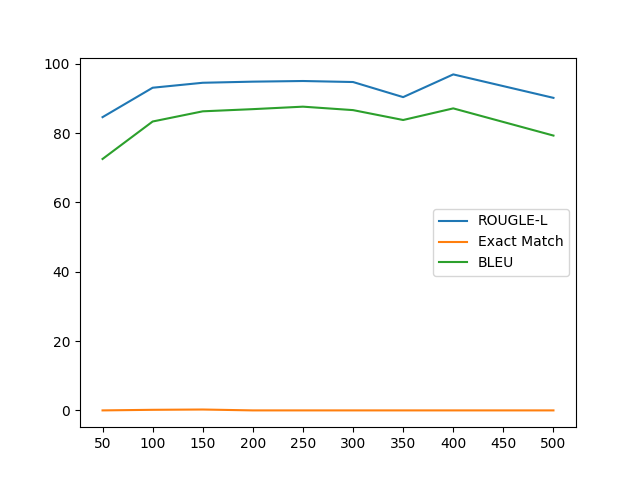
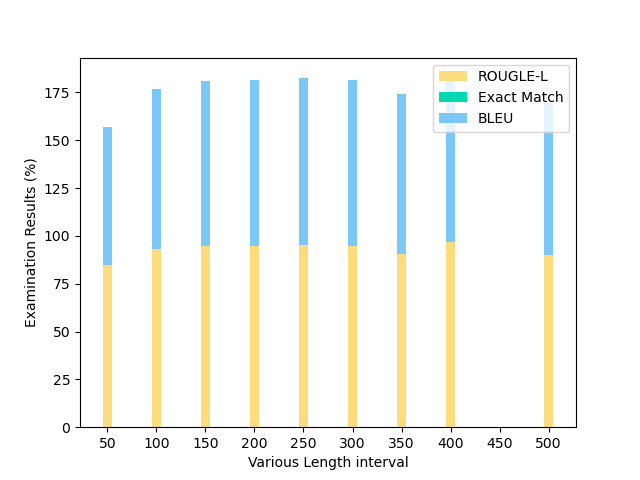
avg length

diff --git a/plotGraph.py b/plotGraph.py
@@ -7,24 +7,29 @@ def multi_plot(rl, em, bleu,interval):
     plt.plot(interval, em,'+-', label = 'Exact Match')
     plt.plot(interval, bleu,'+-', label = 'BLEU')
 
+    # plt.bar(interval, rl,10,color='#FBDD7E')
+    # plt.bar(interval, em, 10, bottom=rl,color='#04D8B2')
+    # plt.bar(interval, bleu, 10, bottom=rl+em,color='#7BC8F6')
+
     # plt.suptitle('Evaluation with different intervals', fontsize = 15)
-    plt.xticks(np.arange(min(interval), max(interval)+1, 10.0))
+    plt.xticks(np.arange(min(interval), max(interval)+1, 50.0))
+    # plt.legend(['ROUGLE-L','Exact Match','BLEU'])
     plt.legend()
-    plt.xlabel('Data Size for Training')
+    plt.xlabel('Various Length interval')
     plt.ylabel('Examination Results (%)')
-    # plt.show()
-    plt.savefig('vary_training_size.png')
+    plt.show()
+    # plt.savefig('evaluate_in.png')
 
 
 # training ptb on T5-small with different interval
-# rl = [88.7157, 96.0398, 97.4281, 98.0455, 98.3347, 98.643, 99.046, 98.9691, 99.3007]
-# em = [0.0, 0.0, 0.0, 0.0, 0.0, 0.0, 0.0, 0.0, 0.0]
-# bleu = [80.4111, 91.7192, 94.5737, 95.9414, 96.5473, 97.2210, 98.0641, 97.8935, 98.6925]
+# rl = np.array([88.7469, 96.0533, 97.4129, 98.0295, 98.408, 98.4819, 99.0462, 98.9691, 99.3007])
+# em = np.array([0.0, 0.0, 0.0, 0.0, 0.0, 0.0, 0.0, 0.0, 0.0])
+# bleu = np.array([80.6871, 91.7214, 94.4930, 95.8746, 96.7026, 96.8999, 98.0641, 97.8935, 98.6925])
 
 # training MNLI with different interval
-# rl = [84.577,93.0629,94.4945,94.8156,95.0015,94.7083,90.3548,96.9072,90.1408]
-# em = [0.0, 0.1686, 0.2551, 0.0, 0.0, 0.0, 0.0, 0.0, 0.0]
-# bleu = [72.5129,83.3208,86.2580,86.8868,87.6011,86.6067,83.7559,87.1061,79.2631]
+# rl = np.array([84.577,93.0629,94.4945,94.8156,95.0015,94.7083,90.3548,96.9072,90.1408])
+# em = np.array([0.0, 0.1686, 0.2551, 0.0, 0.0, 0.0, 0.0, 0.0, 0.0])
+# bleu = np.array([72.5129,83.3208,86.2580,86.8868,87.6011,86.6067,83.7559,87.1061,79.2631])
 # interval = [50,100,150,200,250,300,350,400,500]
 
 # varing training size to evaluate MNLI
@@ -40,4 +45,4 @@ training_size = [100,90,80,70,60,50,40,30,20,10]
 # training_size = [10,20,30,40,50,60,70,80,90,100]
 
 multi_plot(rl,em,bleu,training_size)
-
+# multi_plot(rl,em,bleu,interval)

diff --git a/bag_words.py b/bag_words.py
@@ -11,6 +11,7 @@ def extract_data(path):
         for line in file_in:
             # print(line)
             preprocessed = line.replace('<unk>','')
+            # print(preprocessed)
             # preprocessed = re.split(r'\s{3,}',line.replace('\t', '   ').replace('\n', ''))
             lines.append(preprocessed)
             # sentence_list.append(preprocessed[5])
@@ -67,12 +68,20 @@ def len_interval(list, min, max):
     a_list = [a for a in list if len(a) <= max and len(a) > min]
     return a_list
 
-
+def count_avg_len(list):
+    all_sen = [len(a) for a in list]
+    # print(all_sen)
+    avg = sum(all_sen)/len(all_sen)
+    return avg
 # path = '/Users/dyt/Documents/WORK/Yin/multinli_1.0/multinli_1.0_dev_matched.txt'
-path = '/Users/dyt/Documents/WORK/Yin/ptbdataset/ptb.train.txt'
+# path = '/Users/dyt/Documents/WORK/Yin/ptbdataset/ptb.train.txt'
+path = '/Users/dyt/Documents/WORK/Yin/ptbdataset/ptb.test.txt'
+
 sentence_list = extract_data(path)
 sorted_list = sorted(sentence_list, key = len)
 print(len(sorted_list))
+print(count_avg_len(sorted_list))
+
 # list_50 = len_interval(sorted_list,0, 50)
 # list_100 = len_interval(sorted_list,50, 100)
 # list_150 = len_interval(sorted_list,100, 150) #1175
